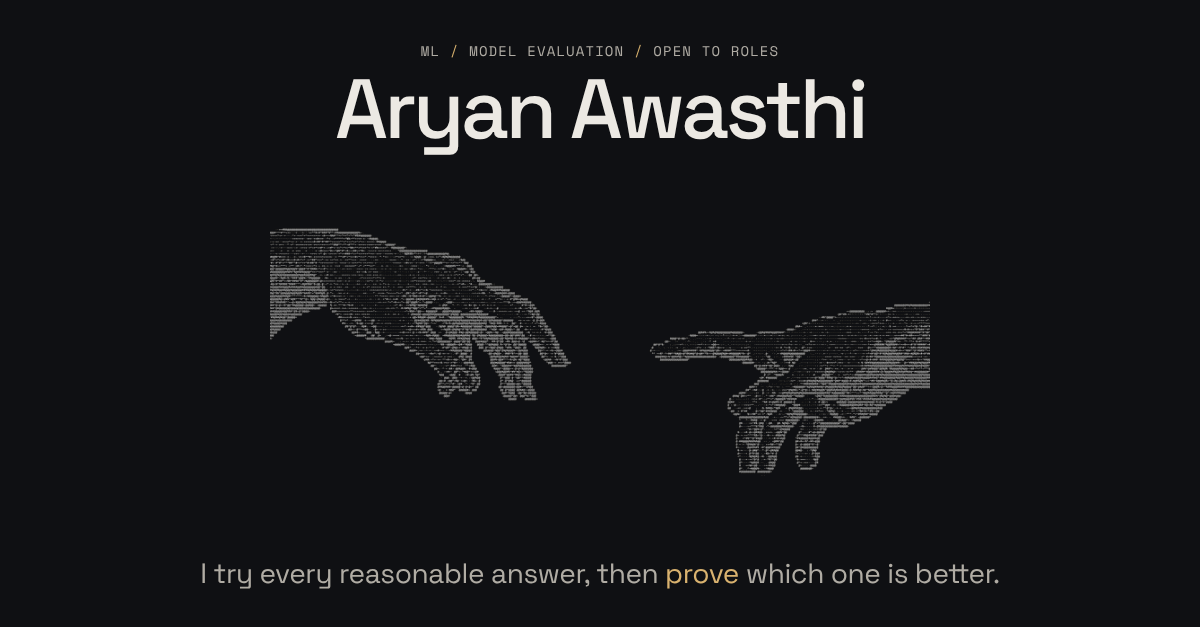
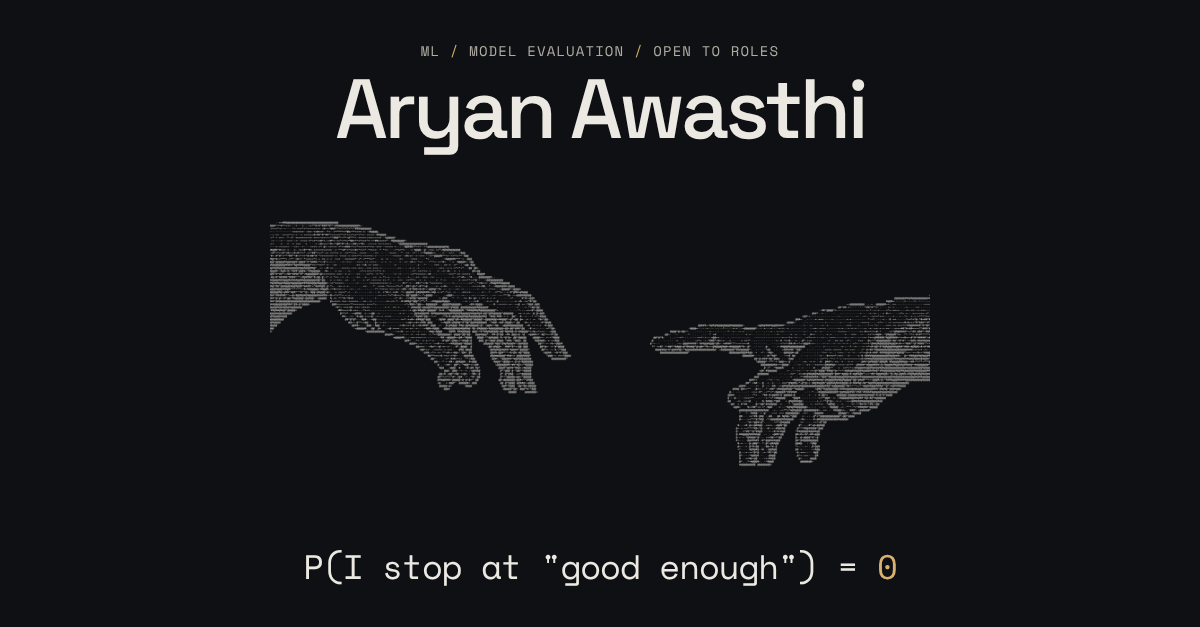
New tagline: P(I stop at "good enough") = 0
Set in Space Mono with a blinking cursor; the old line moves under it with
a 95% confidence interval of [0, 0]. Meta descriptions and link card match.

Changed region(s): [[0.2158, 0.3333, 0.4933, 0.6364], [0.5242, 0.4545, 0.7708, 0.7576], [0.1542, 0.8788, 0.8325, 0.9394]]

diff --git a/index.html b/index.html
@@ -4,7 +4,7 @@
 <meta charset="utf-8">
 <meta name="viewport" content="width=device-width, initial-scale=1, viewport-fit=cover">
 <title>Aryan Awasthi</title>
-<meta name="description" content="Aryan Awasthi tries every reasonable answer, then proves which one is better. Machine learning, model evaluation, RAG and speech ML.">
+<meta name="description" content="P(Aryan stops at good enough) = 0. Aryan Awasthi tries every reasonable answer, then proves which one is better. Machine learning, model evaluation, RAG and speech ML.">
 <meta name="color-scheme" content="dark light">
 <meta name="theme-color" content="#0F1013">
 <script>try{var s=localStorage.getItem("theme");document.documentElement.setAttribute("data-theme",s||(matchMedia("(prefers-color-scheme: light)").matches?"light":"dark"))}catch(e){document.documentElement.setAttribute("data-theme","dark")}</script>
@@ -12,7 +12,7 @@
 <meta property="og:type" content="profile">
 <meta property="og:site_name" content="Aryan Awasthi">
 <meta property="og:title" content="Aryan Awasthi, machine learning and model evaluation">
-<meta property="og:description" content="I try every reasonable answer, then prove which one is better. AI Research Intern on model evaluation at Appy Pie (Pixazo). Open to ML, data and analytics roles.">
+<meta property="og:description" content="P(I stop at good enough) = 0. I try every reasonable answer, then prove which one is better. AI Research Intern on model evaluation at Appy Pie (Pixazo). Open to ML, data and analytics roles.">
 <meta property="og:url" content="https://aryanawasthi.vercel.app/">
 <meta property="og:image" content="https://aryanawasthi.vercel.app/og.png">
 <meta property="og:image:width" content="1200">
@@ -167,8 +167,15 @@ kbd { font-family: var(--mono); font-size: 11px; color: var(--ink-3); }
 .pill .dot { width: 7px; height: 7px; border-radius: 50%; background: var(--sage); animation: live 2.4s ease-out infinite; }
 @keyframes live { 0% { box-shadow: 0 0 0 0 var(--sage); } 70%, 100% { box-shadow: 0 0 0 7px transparent; } }
 .name { font-weight: var(--w-display, 500); font-size: clamp(52px, 10vw, 132px); line-height: .92; letter-spacing: -.045em; margin: 18px 0 14px; }
-.lead { font-size: clamp(20px, 2.4vw, 27px); line-height: 1.3; letter-spacing: -.015em; color: var(--ink-2); margin: 0 auto 14px; max-width: 30ch; text-wrap: balance; }
+.lead { font-size: clamp(18px, 2vw, 22px); line-height: 1.3; letter-spacing: -.015em; color: var(--ink-2); margin: 0 auto 14px; max-width: 30ch; text-wrap: balance; }
 .lead em { font-style: normal; color: var(--accent); }
+.tagline { margin: 4px auto 14px; font: 400 clamp(20px, 3.1vw, 38px)/1.2 var(--mono); letter-spacing: -.03em; color: var(--ink); white-space: nowrap; }
+.tagline code { font: inherit; }
+.tagline em { font-style: normal; color: var(--accent); }
+.caret { display: inline-block; width: .55em; height: 1.05em; margin-left: .18em; vertical-align: -.16em; background: var(--accent); animation: blink 1.1s steps(1) infinite; }
+@keyframes blink { 50% { opacity: 0; } }
+.lead .ci { font-family: var(--mono); font-size: .72em; letter-spacing: 0; color: var(--ink-3); display: block; margin-bottom: 6px; }
+@media (max-width: 420px) { .tagline { font-size: 18px; } }
 .sub { max-width: 60ch; color: var(--ink-3); font-size: 16px; margin: 0 auto 28px; text-wrap: pretty; }
 .sub strong { color: var(--ink-2); font-weight: 500; }
 .actions { display: flex; flex-wrap: wrap; justify-content: center; gap: 10px; }
@@ -360,7 +367,8 @@ dialog.cmd::backdrop { background: rgba(0, 0, 0, .55); }
       <div class="hero-copy">
         <p class="pill"><span class="dot" aria-hidden="true"></span>Open to ML and data roles</p>
         <h1 id="hero-name" class="name">Aryan Awasthi</h1>
-        <p class="lead">I try every reasonable answer, then <em>prove</em> which one is better.</p>
+        <p class="tagline"><code>P(I stop at "good enough") = <em>0</em></code><span class="caret" aria-hidden="true"></span></p>
+        <p class="lead"><span class="ci">95% confidence interval: [0, 0].</span> I try every reasonable answer, then prove which one is better.</p>
         <p class="sub">Machine learning and data student at Thapar Institute. Most recently an <strong>AI Research Intern on model evaluation</strong> at Appy Pie (Pixazo), where I ranked 15 models over 1,050 match-ups with Elo, Bradley-Terry and bootstrap confidence intervals.</p>
         <div class="actions">
           <a class="btn primary" href="AryanAwasthi.pdf">Resume (PDF)</a>

diff --git a/src/index.template.html b/src/index.template.html
@@ -4,7 +4,7 @@
 <meta charset="utf-8">
 <meta name="viewport" content="width=device-width, initial-scale=1, viewport-fit=cover">
 <title>Aryan Awasthi</title>
-<meta name="description" content="Aryan Awasthi tries every reasonable answer, then proves which one is better. Machine learning, model evaluation, RAG and speech ML.">
+<meta name="description" content="P(Aryan stops at good enough) = 0. Aryan Awasthi tries every reasonable answer, then proves which one is better. Machine learning, model evaluation, RAG and speech ML.">
 <meta name="color-scheme" content="dark light">
 <meta name="theme-color" content="#0F1013">
 <script>try{var s=localStorage.getItem("theme");document.documentElement.setAttribute("data-theme",s||(matchMedia("(prefers-color-scheme: light)").matches?"light":"dark"))}catch(e){document.documentElement.setAttribute("data-theme","dark")}</script>
@@ -12,7 +12,7 @@
 <meta property="og:type" content="profile">
 <meta property="og:site_name" content="Aryan Awasthi">
 <meta property="og:title" content="Aryan Awasthi, machine learning and model evaluation">
-<meta property="og:description" content="I try every reasonable answer, then prove which one is better. AI Research Intern on model evaluation at Appy Pie (Pixazo). Open to ML, data and analytics roles.">
+<meta property="og:description" content="P(I stop at good enough) = 0. I try every reasonable answer, then prove which one is better. AI Research Intern on model evaluation at Appy Pie (Pixazo). Open to ML, data and analytics roles.">
 <meta property="og:url" content="{{SITE}}">
 <meta property="og:image" content="{{SITE}}og.png">
 <meta property="og:image:width" content="1200">
@@ -167,8 +167,15 @@ kbd { font-family: var(--mono); font-size: 11px; color: var(--ink-3); }
 .pill .dot { width: 7px; height: 7px; border-radius: 50%; background: var(--sage); animation: live 2.4s ease-out infinite; }
 @keyframes live { 0% { box-shadow: 0 0 0 0 var(--sage); } 70%, 100% { box-shadow: 0 0 0 7px transparent; } }
 .name { font-weight: var(--w-display, 500); font-size: clamp(52px, 10vw, 132px); line-height: .92; letter-spacing: -.045em; margin: 18px 0 14px; }
-.lead { font-size: clamp(20px, 2.4vw, 27px); line-height: 1.3; letter-spacing: -.015em; color: var(--ink-2); margin: 0 auto 14px; max-width: 30ch; text-wrap: balance; }
+.lead { font-size: clamp(18px, 2vw, 22px); line-height: 1.3; letter-spacing: -.015em; color: var(--ink-2); margin: 0 auto 14px; max-width: 30ch; text-wrap: balance; }
 .lead em { font-style: normal; color: var(--accent); }
+.tagline { margin: 4px auto 14px; font: 400 clamp(20px, 3.1vw, 38px)/1.2 var(--mono); letter-spacing: -.03em; color: var(--ink); white-space: nowrap; }
+.tagline code { font: inherit; }
+.tagline em { font-style: normal; color: var(--accent); }
+.caret { display: inline-block; width: .55em; height: 1.05em; margin-left: .18em; vertical-align: -.16em; background: var(--accent); animation: blink 1.1s steps(1) infinite; }
+@keyframes blink { 50% { opacity: 0; } }
+.lead .ci { font-family: var(--mono); font-size: .72em; letter-spacing: 0; color: var(--ink-3); display: block; margin-bottom: 6px; }
+@media (max-width: 420px) { .tagline { font-size: 18px; } }
 .sub { max-width: 60ch; color: var(--ink-3); font-size: 16px; margin: 0 auto 28px; text-wrap: pretty; }
 .sub strong { color: var(--ink-2); font-weight: 500; }
 .actions { display: flex; flex-wrap: wrap; justify-content: center; gap: 10px; }
@@ -360,7 +367,8 @@ dialog.cmd::backdrop { background: rgba(0, 0, 0, .55); }
       <div class="hero-copy">
         <p class="pill"><span class="dot" aria-hidden="true"></span>Open to ML and data roles</p>
         <h1 id="hero-name" class="name">Aryan Awasthi</h1>
-        <p class="lead">I try every reasonable answer, then <em>prove</em> which one is better.</p>
+        <p class="tagline"><code>P(I stop at "good enough") = <em>0</em></code><span class="caret" aria-hidden="true"></span></p>
+        <p class="lead"><span class="ci">95% confidence interval: [0, 0].</span> I try every reasonable answer, then prove which one is better.</p>
         <p class="sub">Machine learning and data student at Thapar Institute. Most recently an <strong>AI Research Intern on model evaluation</strong> at Appy Pie (Pixazo), where I ranked 15 models over 1,050 match-ups with Elo, Bradley-Terry and bootstrap confidence intervals.</p>
         <div class="actions">
           <a class="btn primary" href="AryanAwasthi.pdf">Resume (PDF)</a>

diff --git a/src/og.html b/src/og.html
@@ -11,10 +11,11 @@ body { width: 1200px; height: 627px; box-sizing: border-box; padding: 40px 64px 
 .tag span { color: #D9B26F; }
 .name { margin: 6px 0 0; font-size: 84px; line-height: 1; font-weight: 500; letter-spacing: -.045em; }
 img { width: 660px; height: auto; display: block; mix-blend-mode: lighten; }
-.lead { margin: 0; font-size: 28px; letter-spacing: -.015em; color: #B0ACA4; }
+.lead { margin: 0; font: 34px "Space Mono", monospace; letter-spacing: -.03em; color: #ECE9E3; }
+.lead code { font: inherit; }
 .lead em { font-style: normal; color: #D9B26F; }
 </style></head><body>
 <div><p class="tag">ML <span>/</span> model evaluation <span>/</span> open to roles</p><p class="name">Aryan Awasthi</p></div>
 <img src="../adam.jpg" alt="">
-<p class="lead">I try every reasonable answer, then <em>prove</em> which one is better.</p>
+<p class="lead"><code>P(I stop at "good enough") = <em>0</em></code></p>
 </body></html>

diff --git a/src/og.py b/src/og.py
@@ -19,12 +19,13 @@ body { width: 1200px; height: 627px; box-sizing: border-box; padding: 40px 64px 
 .tag span { color: #D9B26F; }
 .name { margin: 6px 0 0; font-size: 84px; line-height: 1; font-weight: 500; letter-spacing: -.045em; }
 img { width: 660px; height: auto; display: block; mix-blend-mode: lighten; }
-.lead { margin: 0; font-size: 28px; letter-spacing: -.015em; color: #B0ACA4; }
+.lead { margin: 0; font: 34px "Space Mono", monospace; letter-spacing: -.03em; color: #ECE9E3; }
+.lead code { font: inherit; }
 .lead em { font-style: normal; color: #D9B26F; }
 </style></head><body>
 <div><p class="tag">ML <span>/</span> model evaluation <span>/</span> open to roles</p><p class="name">Aryan Awasthi</p></div>
 <img src="../adam.jpg" alt="">
-<p class="lead">I try every reasonable answer, then <em>prove</em> which one is better.</p>
+<p class="lead"><code>P(I stop at "good enough") = <em>0</em></code></p>
 </body></html>
 """
 (ROOT / "src" / "og.html").write_text(page, encoding="utf-8")
